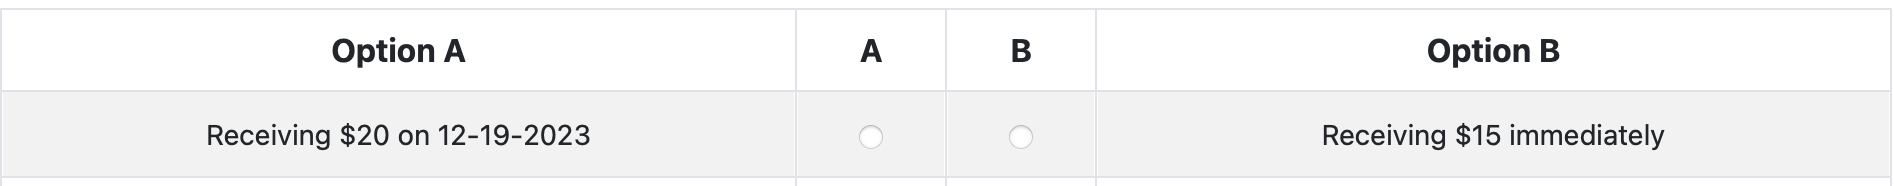
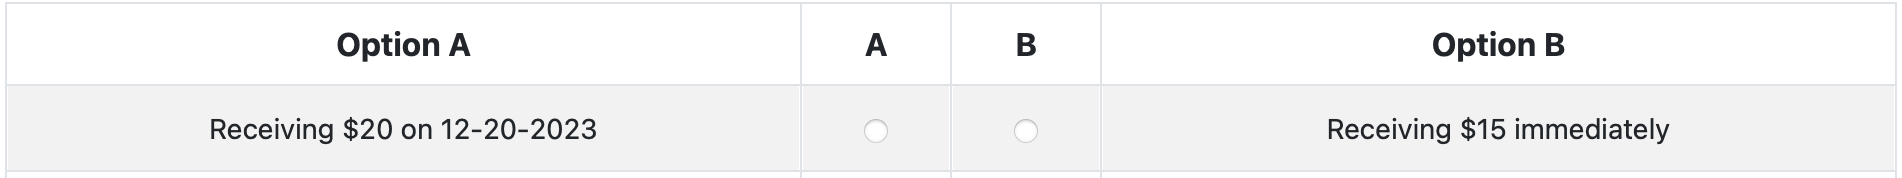
20231205version

diff --git a/comprehension/templates/comprehension/DecisionScreen1.html b/comprehension/templates/comprehension/DecisionScreen1.html
@@ -7,12 +7,15 @@
 
 {% block content %}
 <p>Please read these instructions carefully. There will be comprehension checks. If you <b>fail</b> these checks, you will be <b>excluded from the study</b> and you <b>will not receive the completion payment</b>.</p>
-<p>On decision screen, you will be asked to choose which of two payment options you prefer. You will see choice lists such as the one below, where each row is a separate choice.</p>
+<p>On the first decision screen, you will be asked to choose which of two payment options you prefer. You will see choice lists such as the one below, where each row is a separate choice.</p>
 <img src="{{ static 'image/example2.png' }}" style="width:100%; max-width:800px; height:auto;"/>
-<p>In every list, the left-hand option (Option A) is a delayed payment that you will be paid in few days later. The right-hand side option (Option B) is a payment that you can be paid immediately. To make a choice just click on the option you prefer for each choice (i.e. for each row). An effective way to complete these choice lists is to determine in which row you like to switch from preferring Option A to preferring Option B. </p>
-<p>Note: Money or date will change in subsequent questions.</p>
-<p>Based on where you switch from Option A to Option B in this list, we assess which amount specified at the later payment date (Option A) you value as much as the amount paid immediately (Option B). For example, in the choice list below, you would value $30 and $32 in 12-19-2023 somewhere between $15 today, because this is where switching occurs.</p>
-
+<p>In every list, the left-hand side option (Option A) is a delayed payment that you will be paid in few days later. The right-hand side option (Option B) is a payment that you can be paid immediately. To make a choice just click on the option you prefer for each choice (i.e. for each row). An effective way to complete these choice lists is to determine in which row you like to switch from preferring Option A to preferring Option B. </p>
+    <p>Based on where you switch from Option A to Option B in this list, we assess which amount specified at the later payment date (Option A) you value as much as the amount paid immediately (Option B). For example, in the choice list below, you would value $30 and $32 in 12-20-2023 somewhere between $15 today, because this is where switching occurs.</p>
+    <p>Slightly different from the first, on the second decision screen, each column's left-hand side option (Option A) will be a payment that you can receive immediately. The right-hand side option (Option B) is a delayed payment that you will be paid in few days later.</p>
+    <img src="{{ static 'image/example4.png' }}" style="width:100%; max-width:800px; height:auto;"/>
+    <p>The amount of money or the date will consistently change in the left-hand side option in subsequent questions.</p>
+<p>Note: While you may choose as shown in the image below, it is illogical. You wouldn't prefer receiving $30 on 12-20-2023 over receiving $15 immediately, and at the same time prefer receiving $15 immediately over receiving $32 on 12-20-2023 (in other words, you wouldn't prefer receiving $30 on 12-20-2023 over receiving $32 on the same date).</p>
+    <img src="{{ static 'image/example5.png' }}" style="width:100%; max-width:800px; height:auto;"/>
 <p><b>Auto-completion</b>: The table auto-completes your choices so you don’t have to click through all of the rows. You do not have to start at the top of the table. If you select Option A in any one row, we assume you will also prefer Option A in all rows above that row. If you select Option B in any one row, we assume that you will also prefer Option B in all rows below that row.</p>
     {% next_button %}
 {% endblock %}

diff --git a/comprehension/templates/comprehension/AttentionCheck1.html b/comprehension/templates/comprehension/AttentionCheck1.html
@@ -17,7 +17,8 @@
         width: 100%; /* Adjust the width as necessary */
     }
 </style>
-
+<p>The questions below test your understanding of the instructions.</p>
+<p><b>Important:</b> If you fail to answer all of these questions correctly on two consecutive attempts, you will not be allowed to participate in the study.</p>
 
 <div>
     <p style="margin-bottom: 0;">{{ question_1_text }}</p>
@@ -26,18 +27,34 @@
 <br>
 <br>
 <div>
-    <p style="margin-bottom: 0;">
-        {{ question_2_text }}
-    </p>
-</div>
-
-<div class="scrollable-radio-buttons">
+    <p style="margin-bottom: 0;">{{ question_2_text }}</p>
+    <img src="{{ static 'image/example7.png' }}" style="width:100%; max-width:800px; height:auto;"/>
     {% formfield form.question_2_answer %}
 </div>
+{#<div>#}
+{#    <p style="margin-bottom: 0;">#}
+{#        {{ question_2_text }}#}
+{#    </p>#}
+{#</div>#}
+{##}
+{#<div class="scrollable-radio-buttons">#}
+{#    {% formfield form.question_2_answer %}#}
+{#</div>#}
 <br>
 <br>
 <div>
     <p style="margin-bottom: 0;">{{ question_3_text }}</p>
+    <p>Note: The date of the option on the left has changed.</p>
+    <div style="display: flex; justify-content: space-around;">
+    <div style="text-align: center;">
+        <img src="{{ static 'image/example6.png' }}" style="max-width: 400px; height: auto;"/>
+        <p>Selection Method 1</p>
+    </div>
+    <div style="text-align: center;">
+        <img src="{{ static 'image/example3.png' }}" style="max-width: 400px; height: auto;"/>
+        <p>Selection Method 2</p>
+    </div>
+</div>
     {% formfield form.question_3_answer %}
 </div>
 

diff --git a/comprehension/templates/comprehension/BasicInstruction.html b/comprehension/templates/comprehension/BasicInstruction.html
@@ -10,7 +10,7 @@
 <p>Please take some time to read the following instructions. </p>
 <p>In the first part of the study you will <b>choose between various payment</b>, which pay different amounts at different points in time. An example decision is between the following two actual payments.</p>
 <img src="{{ static 'image/example1.png' }}" style="width:100%; max-width:800px; height:auto;"/>
-<p>In this example we are asking you (actually) would you rather be paid $20 in 12-19-2023 (Option A) or $15 immediately (Option B).</p>
+<p>In this example we are asking you (actually) would you rather be paid $20 in 12-20-2023 (Option A) or $15 immediately (Option B).</p>
 <p>For this experiment, there are no right wrong answers, because how much you like an option depends on your personal taste. Just try your best to think hard about what you’d really prefer.</p>
 <p>At the end of the experiment we will randomly select xx% of participants to <b>actually be paid their earnings as a bonus today</b> from a randomly selected choice.</p>
     {% next_button %}

diff --git a/project2023/templates/project2023/ChoiceList1.html b/project2023/templates/project2023/ChoiceList1.html
@@ -7,8 +7,9 @@ Block {{ player.current_step }} of 9
 {% endblock %}
 
 {% block content %}
-<p>Today is <b><span id="date"></span></b> (MM-DD-YYYY, MM = month, DD = day of the month, YYYY = year), if you were given the choice between the following two options to receive money, which one would you prefer?</p>
-<p>Note: Money or date will change in subsequent questions.</p>
+    <p style="text-align: center;">Today is <b><span id="date"></span></b> (MM-DD-YYYY, MM = month, DD = day of the month, YYYY = year).</p>
+    <p>If you were given the choice between the following two options to receive money, which one would you prefer?</p>
+    <p>Note: Money or date will change in subsequent questions.</p>
 
 <script>
         var today = new Date();

diff --git a/project2023/templates/project2023/ChoiceList2.html b/project2023/templates/project2023/ChoiceList2.html
@@ -7,8 +7,9 @@ Block {{ player.current_step }} of 9
 {% endblock %}
 
 {% block content %}
-<p>Today is <b><span id="date"></span></b> (MM-DD-YYYY, MM = month, DD = day of the month, YYYY = year), if you were given the choice between the following two options to receive money, which one would you prefer?</p>
-<p>Note: Money or date will change in subsequent questions.</p>
+    <p style="text-align: center;">Today is <b><span id="date"></span></b> (MM-DD-YYYY, MM = month, DD = day of the month, YYYY = year).</p>
+    <p>If you were given the choice between the following two options to receive money, which one would you prefer?</p>
+    <p>Note: Money or date will change in subsequent questions.</p>
 
 <script>
         var today = new Date();

diff --git a/project2023/templates/project2023/ChoiceList3.html b/project2023/templates/project2023/ChoiceList3.html
@@ -7,8 +7,9 @@ Block {{ player.current_step }} of 9
 {% endblock %}
 
 {% block content %}
-<p>Today is <b><span id="date"></span></b> (MM-DD-YYYY, MM = month, DD = day of the month, YYYY = year), if you were given the choice between the following two options to receive money, which one would you prefer?</p>
-<p>Note: Money or date will change in subsequent questions.</p>
+    <p style="text-align: center;">Today is <b><span id="date"></span></b> (MM-DD-YYYY, MM = month, DD = day of the month, YYYY = year).</p>
+    <p>If you were given the choice between the following two options to receive money, which one would you prefer?</p>
+    <p>Note: Money or date will change in subsequent questions.</p>
 
 <script>
         var today = new Date();

diff --git a/project2023/templates/project2023/ChoiceList4.html b/project2023/templates/project2023/ChoiceList4.html
@@ -7,8 +7,9 @@ Block {{ player.current_step }} of 9
 {% endblock %}
 
 {% block content %}
-<p>Today is <b><span id="date"></span></b> (MM-DD-YYYY, MM = month, DD = day of the month, YYYY = year), if you were given the choice between the following two options to receive money, which one would you prefer?</p>
-<p>Note: Money or date will change in subsequent questions.</p>
+    <p style="text-align: center;">Today is <b><span id="date"></span></b> (MM-DD-YYYY, MM = month, DD = day of the month, YYYY = year).</p>
+    <p>If you were given the choice between the following two options to receive money, which one would you prefer?</p>
+    <p>Note: Money or date will change in subsequent questions.</p>
 
 <script>
         var today = new Date();

diff --git a/project2023/templates/project2023/ChoiceList5.html b/project2023/templates/project2023/ChoiceList5.html
@@ -7,8 +7,9 @@ Block {{ player.current_step }} of 9
 {% endblock %}
 
 {% block content %}
-<p>Today is <b><span id="date"></span></b> (MM-DD-YYYY, MM = month, DD = day of the month, YYYY = year), if you were given the choice between the following two options to receive money, which one would you prefer?</p>
-<p>Note: Money or date will change in subsequent questions.</p>
+    <p style="text-align: center;">Today is <b><span id="date"></span></b> (MM-DD-YYYY, MM = month, DD = day of the month, YYYY = year).</p>
+    <p>If you were given the choice between the following two options to receive money, which one would you prefer?</p>
+    <p>Note: Money or date will change in subsequent questions.</p>
 
 <script>
         var today = new Date();

diff --git a/project2023/templates/project2023/ChoiceList10.html b/project2023/templates/project2023/ChoiceList10.html
@@ -7,7 +7,8 @@ Block {{ player.current_step }} of 9
 {% endblock %}
 
 {% block content %}
-<p>Today is <b><span id="date" style="font-size: 24px;"></span></b> (MM-DD-YYYY, MM = month, DD = day of the month, YYYY = year), if you were given the choice between the following two options to receive money, which one would you prefer?</p>
+    <p style="text-align: center;">Today is <b><span id="date" style="font-size: 24px;"></span></b> (MM-DD-YYYY, MM = month, DD = day of the month, YYYY = year).</p>
+    <p>If you were given the choice between the following two options to receive money, which one would you prefer?</p>
 <p>Note: Money or date will change in subsequent questions.</p>
 
 <script>

diff --git a/project2023/templates/project2023/ChoiceList11.html b/project2023/templates/project2023/ChoiceList11.html
@@ -7,7 +7,8 @@ Block {{ player.current_step }} of 9
 {% endblock %}
 
 {% block content %}
-<p>Today is <b><span id="date" style="font-size: 24px;"></span></b> (MM-DD-YYYY, MM = month, DD = day of the month, YYYY = year), if you were given the choice between the following two options to receive money, which one would you prefer?</p>
+    <p style="text-align: center;">Today is <b><span id="date" style="font-size: 24px;"></span></b> (MM-DD-YYYY, MM = month, DD = day of the month, YYYY = year).</p>
+    <p>If you were given the choice between the following two options to receive money, which one would you prefer?</p>
 <p>Note: Money or date will change in subsequent questions.</p>
 
 <script>

diff --git a/project2023/templates/project2023/ChoiceList12.html b/project2023/templates/project2023/ChoiceList12.html
@@ -7,7 +7,8 @@ Block {{ player.current_step }} of 9
 {% endblock %}
 
 {% block content %}
-<p>Today is <b><span id="date" style="font-size: 24px;"></span></b> (MM-DD-YYYY, MM = month, DD = day of the month, YYYY = year), if you were given the choice between the following two options to receive money, which one would you prefer?</p>
+    <p style="text-align: center;">Today is <b><span id="date" style="font-size: 24px;"></span></b> (MM-DD-YYYY, MM = month, DD = day of the month, YYYY = year).</p>
+    <p>If you were given the choice between the following two options to receive money, which one would you prefer?</p>
 <p>Note: Money or date will change in subsequent questions.</p>
 
 <script>

diff --git a/project2023/templates/project2023/ChoiceList6.html b/project2023/templates/project2023/ChoiceList6.html
@@ -7,7 +7,8 @@ Block {{ player.current_step }} of 9
 {% endblock %}
 
 {% block content %}
-<p>Today is <b><span id="date"></span></b> (MM-DD-YYYY, MM = month, DD = day of the month, YYYY = year), if you were given the choice between the following two options to receive money, which one would you prefer?</p>
+    <p style="text-align: center;">Today is <b><span id="date"></span></b> (MM-DD-YYYY, MM = month, DD = day of the month, YYYY = year).</p>
+    <p>If you were given the choice between the following two options to receive money, which one would you prefer?</p>
 <p>Note: Money or date will change in subsequent questions.</p>
 
 <script>
